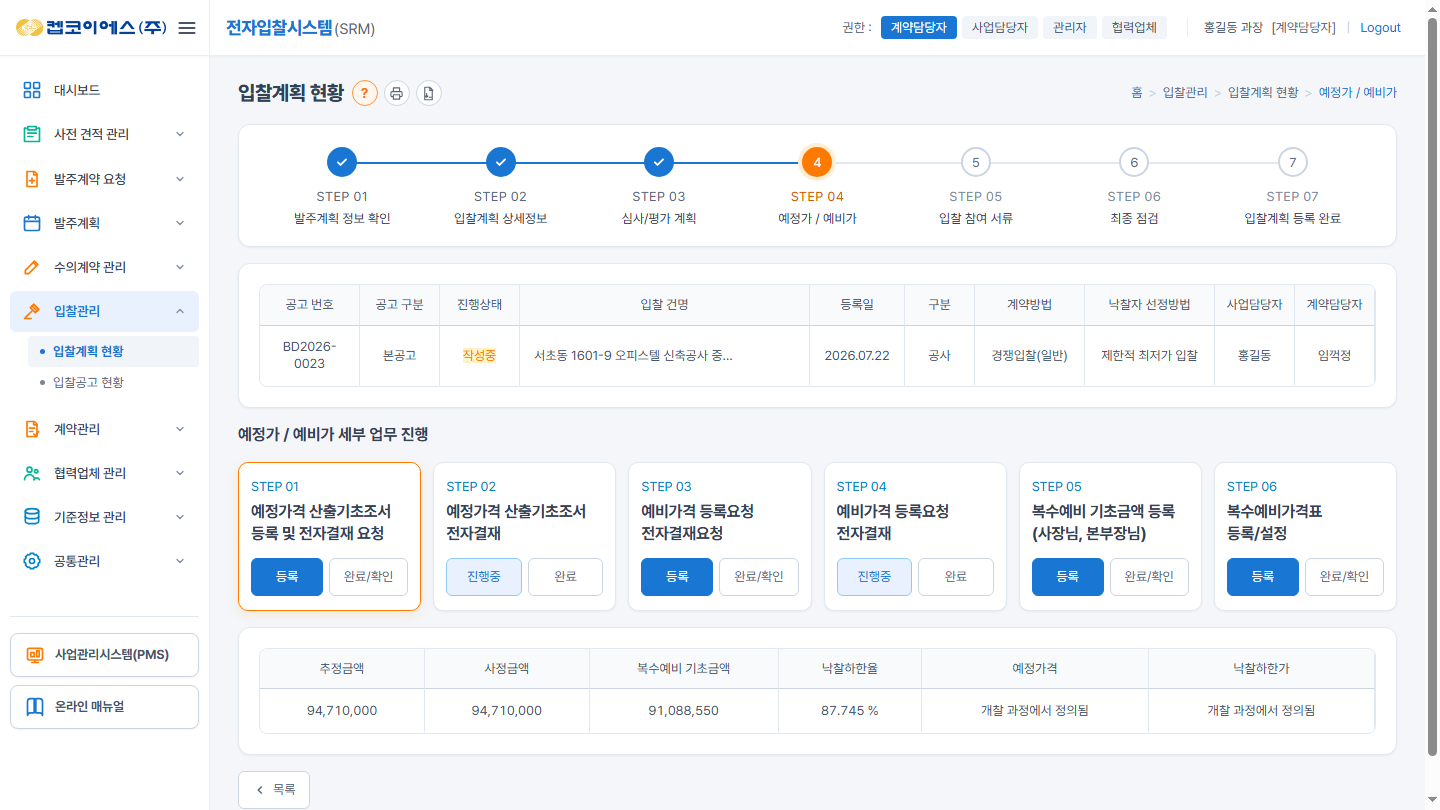
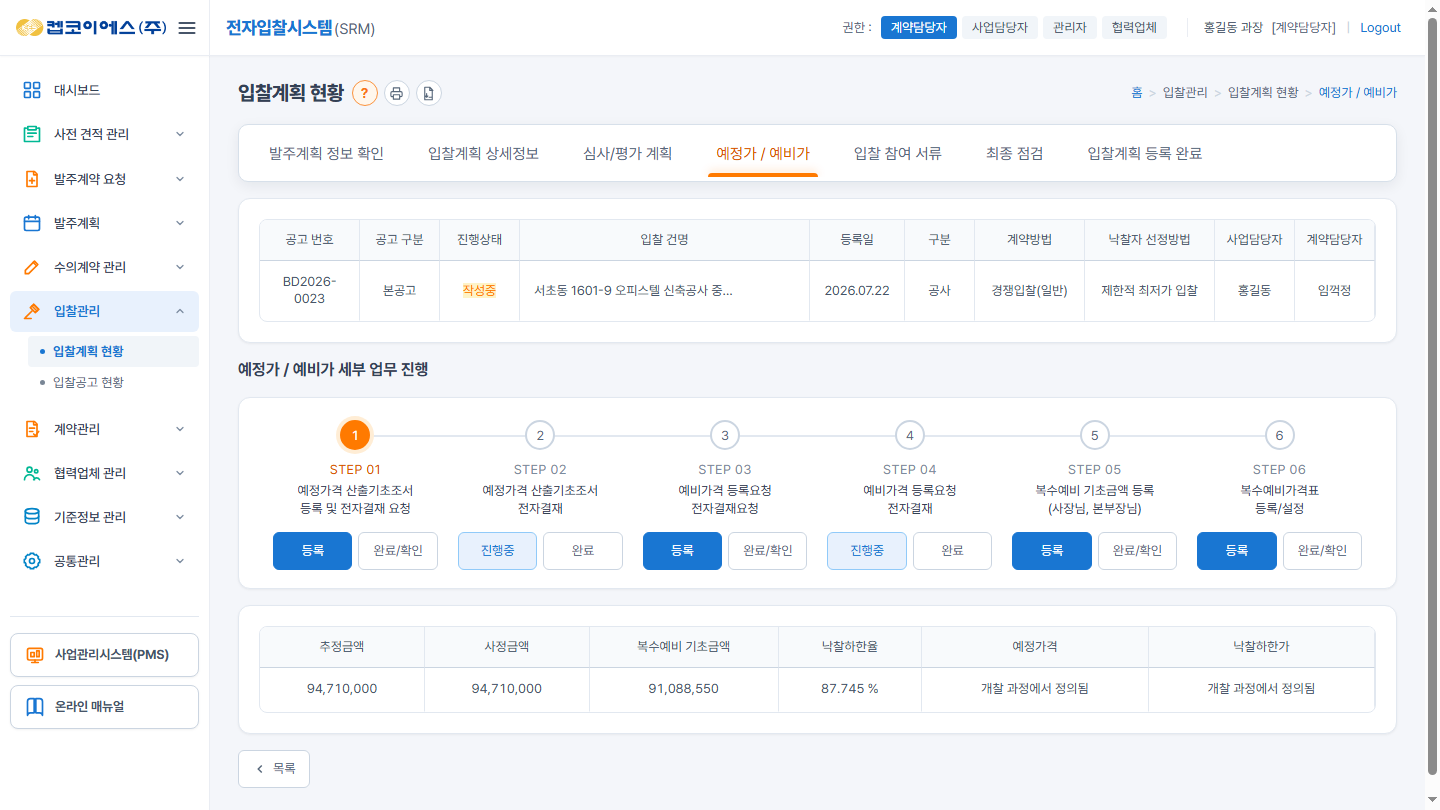
feat: StepWorkflow tab menu and flow stepper, add deployment URL list (guide v2.31)
- top 7-step indicator on StepWorkflow becomes the standard work tab menu
- 6 detail sub-steps become an action stepper (flowchart) instead of cards
- remove obsolete sub-stepper card CSS, sync approval flow JS
- refresh StepWorkflow thumbnail
- add URL.txt with GitHub Pages addresses

diff --git a/StepWorkflow.html b/StepWorkflow.html
@@ -268,43 +268,18 @@
       </div>
 
       <!-- ==================================================================
-           입찰계획 7단계 진행 표시 (표준 위저드 스텝바, 현재 단계 = STEP 04)
+           입찰계획 7단계 탭 메뉴 (표준 업무 탐색 탭, 현재 탭 = 예정가 / 예비가)
+           시연 범위 밖 단계는 선택 시 안내만 표시합니다.
            ================================================================== -->
-      <div class="wizard-stepper" id="workflowStepper" role="group" aria-label="입찰계획 진행 단계">
-        <div class="wizard-step-box completed" data-step="1" role="button" tabindex="0">
-          <span class="wizard-step-dot" aria-hidden="true">1</span>
-          <div class="wizard-step-num">STEP 01</div>
-          <div class="wizard-step-title">발주계획 정보 확인</div>
-        </div>
-        <div class="wizard-step-box completed" data-step="2" role="button" tabindex="0">
-          <span class="wizard-step-dot" aria-hidden="true">2</span>
-          <div class="wizard-step-num">STEP 02</div>
-          <div class="wizard-step-title">입찰계획 상세정보</div>
-        </div>
-        <div class="wizard-step-box completed" data-step="3" role="button" tabindex="0">
-          <span class="wizard-step-dot" aria-hidden="true">3</span>
-          <div class="wizard-step-num">STEP 03</div>
-          <div class="wizard-step-title">심사/평가 계획</div>
-        </div>
-        <div class="wizard-step-box active" data-step="4" role="button" tabindex="0" aria-current="step">
-          <span class="wizard-step-dot" aria-hidden="true">4</span>
-          <div class="wizard-step-num">STEP 04</div>
-          <div class="wizard-step-title">예정가 / 예비가</div>
-        </div>
-        <div class="wizard-step-box" data-step="5" role="button" tabindex="0">
-          <span class="wizard-step-dot" aria-hidden="true">5</span>
-          <div class="wizard-step-num">STEP 05</div>
-          <div class="wizard-step-title">입찰 참여 서류</div>
-        </div>
-        <div class="wizard-step-box" data-step="6" role="button" tabindex="0">
-          <span class="wizard-step-dot" aria-hidden="true">6</span>
-          <div class="wizard-step-num">STEP 06</div>
-          <div class="wizard-step-title">최종 점검</div>
-        </div>
-        <div class="wizard-step-box" data-step="7" role="button" tabindex="0">
-          <span class="wizard-step-dot" aria-hidden="true">7</span>
-          <div class="wizard-step-num">STEP 07</div>
-          <div class="wizard-step-title">입찰계획 등록 완료</div>
+      <div class="detail-tabs-bar">
+        <div class="detail-tab-group" id="workflowTabs" role="tablist" aria-label="입찰계획 업무 단계" data-tab-preview>
+          <button type="button" class="detail-tab-btn" role="tab" aria-selected="false">발주계획 정보 확인</button>
+          <button type="button" class="detail-tab-btn" role="tab" aria-selected="false">입찰계획 상세정보</button>
+          <button type="button" class="detail-tab-btn" role="tab" aria-selected="false">심사/평가 계획</button>
+          <button type="button" class="detail-tab-btn active" role="tab" aria-selected="true">예정가 / 예비가</button>
+          <button type="button" class="detail-tab-btn" role="tab" aria-selected="false">입찰 참여 서류</button>
+          <button type="button" class="detail-tab-btn" role="tab" aria-selected="false">최종 점검</button>
+          <button type="button" class="detail-tab-btn" role="tab" aria-selected="false">입찰계획 등록 완료</button>
         </div>
       </div>
 
@@ -345,84 +320,65 @@
       </div>
 
       <!-- ==================================================================
-           step 04 세부 업무 프로세스 (6-step sub stepper)
+           step 04 세부 업무 프로세스 (6단계 순서도, 액션형 스텝바)
            ================================================================== -->
       <h2 class="card-title">예정가 / 예비가 세부 업무 진행</h2>
 
-      <div class="sub-stepper-grid">
-        
-        <!-- 서브스텝 1: 예정가격 산출기초조서 등록 및 전자결재 요청 (모달 연계) -->
-        <div class="sub-step-card active-substep">
-          <div>
-            <div class="sub-step-num">STEP 01</div>
-            <div class="sub-step-title">예정가격 산출기초조서<br>등록 및 전자결재 요청</div>
-          </div>
-          <div class="sub-step-btns-row">
+      <div class="wizard-stepper has-actions" id="workflowSubFlow" role="group" aria-label="예정가 / 예비가 세부 업무 진행">
+        <div class="wizard-step-box active" data-step="1" aria-current="step">
+          <span class="wizard-step-dot" aria-hidden="true">1</span>
+          <div class="wizard-step-num">STEP 01</div>
+          <div class="wizard-step-title">예정가격 산출기초조서<br>등록 및 전자결재 요청</div>
+          <div class="wizard-step-actions">
             <button type="button" class="btn-sub-action btn-task-register btn-open-calc-modal">등록</button>
             <button type="button" class="btn-sub-action btn-task-done btn-open-calc-modal">완료/확인</button>
           </div>
         </div>
-
-        <!-- 서브스텝 2: 예정가격 산출기초조서 전자결재 -->
-        <div class="sub-step-card">
-          <div>
-            <div class="sub-step-num">STEP 02</div>
-            <div class="sub-step-title">예정가격 산출기초조서<br>전자결재</div>
-          </div>
-          <div class="sub-step-btns-row">
+        <div class="wizard-step-box" data-step="2">
+          <span class="wizard-step-dot" aria-hidden="true">2</span>
+          <div class="wizard-step-num">STEP 02</div>
+          <div class="wizard-step-title">예정가격 산출기초조서<br>전자결재</div>
+          <div class="wizard-step-actions">
             <button type="button" class="btn-sub-action btn-task-progress">진행중</button>
             <button type="button" class="btn-sub-action btn-task-done">완료</button>
           </div>
         </div>
-
-        <!-- 서브스텝 3: 예비가격 등록요청 전자결재요청 -->
-        <div class="sub-step-card">
-          <div>
-            <div class="sub-step-num">STEP 03</div>
-            <div class="sub-step-title">예비가격 등록요청<br>전자결재요청</div>
-          </div>
-          <div class="sub-step-btns-row">
+        <div class="wizard-step-box" data-step="3">
+          <span class="wizard-step-dot" aria-hidden="true">3</span>
+          <div class="wizard-step-num">STEP 03</div>
+          <div class="wizard-step-title">예비가격 등록요청<br>전자결재요청</div>
+          <div class="wizard-step-actions">
             <button type="button" class="btn-sub-action btn-task-register">등록</button>
             <button type="button" class="btn-sub-action btn-task-done">완료/확인</button>
           </div>
         </div>
-
-        <!-- 서브스텝 4: 예비가격 등록요청 전자결재 -->
-        <div class="sub-step-card">
-          <div>
-            <div class="sub-step-num">STEP 04</div>
-            <div class="sub-step-title">예비가격 등록요청<br>전자결재</div>
-          </div>
-          <div class="sub-step-btns-row">
+        <div class="wizard-step-box" data-step="4">
+          <span class="wizard-step-dot" aria-hidden="true">4</span>
+          <div class="wizard-step-num">STEP 04</div>
+          <div class="wizard-step-title">예비가격 등록요청<br>전자결재</div>
+          <div class="wizard-step-actions">
             <button type="button" class="btn-sub-action btn-task-progress">진행중</button>
             <button type="button" class="btn-sub-action btn-task-done">완료</button>
           </div>
         </div>
-
-        <!-- 서브스텝 5: 복수예비 기초금액 등록 -->
-        <div class="sub-step-card">
-          <div>
-            <div class="sub-step-num">STEP 05</div>
-            <div class="sub-step-title">복수예비 기초금액 등록<br>(사장님, 본부장님)</div>
-          </div>
-          <div class="sub-step-btns-row">
+        <div class="wizard-step-box" data-step="5">
+          <span class="wizard-step-dot" aria-hidden="true">5</span>
+          <div class="wizard-step-num">STEP 05</div>
+          <div class="wizard-step-title">복수예비 기초금액 등록<br>(사장님, 본부장님)</div>
+          <div class="wizard-step-actions">
             <button type="button" class="btn-sub-action btn-task-register">등록</button>
             <button type="button" class="btn-sub-action btn-task-done">완료/확인</button>
           </div>
         </div>
-
-        <!-- 서브스텝 6: 복수예비가격표 등록/설정 -->
-        <div class="sub-step-card">
-          <div>
-            <div class="sub-step-num">STEP 06</div>
-            <div class="sub-step-title">복수예비가격표<br>등록/설정</div>
-          </div>
-          <div class="sub-step-btns-row">
+        <div class="wizard-step-box" data-step="6">
+          <span class="wizard-step-dot" aria-hidden="true">6</span>
+          <div class="wizard-step-num">STEP 06</div>
+          <div class="wizard-step-title">복수예비가격표<br>등록/설정</div>
+          <div class="wizard-step-actions">
             <button type="button" class="btn-sub-action btn-task-register">등록</button>
             <button type="button" class="btn-sub-action btn-task-done">완료/확인</button>
           </div>
         </div>
-
       </div>
 
       <!-- ==================================================================

diff --git a/js/dashboard.js b/js/dashboard.js
@@ -1173,20 +1173,14 @@ function initStatisticsPage() {
  * SRM 입찰계획 현황 화면 인터랙션 (StepWorkflow.html)
  */
 function initStepWorkflowPage() {
-  if (!document.getElementById('workflowStepper')) return;
+  const workflowTabs = document.getElementById('workflowTabs');
+  if (!workflowTabs) return;
 
-  // 스텝바: 현재 화면(진행 단계) 외의 단계는 시연 범위 밖이라 안내만 표시합니다.
-  document.querySelectorAll('#workflowStepper .wizard-step-box').forEach(box => {
-    const notify = () => {
-      if (box.classList.contains('active')) return;
-      alert(`STEP ${box.dataset.step.padStart(2, '0')} 단계 화면은 현재 시연 범위에 포함되지 않습니다.`);
-    };
-    box.addEventListener('click', notify);
-    box.addEventListener('keydown', event => {
-      if (event.key !== 'Enter' && event.key !== ' ') return;
-      event.preventDefault();
-      notify();
-    });
+  // 업무 단계 탭: 현재 화면(예정가 / 예비가) 외의 단계는 시연 범위 밖이라 안내만 표시합니다.
+  initTabGroup(workflowTabs, (tab, source) => {
+    if (tab.classList.contains('active')) return true;
+    if (source === 'click') alert(`${tab.textContent.trim()} 단계 화면은 현재 시연 범위에 포함되지 않습니다.`);
+    return false;
   });
 
   const btnOpenCalcModal = document.querySelectorAll('.btn-open-calc-modal');
@@ -1332,17 +1326,23 @@ function initStepWorkflowPage() {
       alert('그룹웨어로 예정가격 산출기초조서 전자결재 요청이 정상 전송되었습니다.\nSTEP 02 단계가 [진행중]으로 전환됩니다.');
 
       // STEP 01 완료 상태 전환
-      const step1Btn = document.querySelector('.sub-step-card:nth-child(1) .btn-task-register');
+      const step1Btn = document.querySelector('#workflowSubFlow .wizard-step-box:nth-child(1) .btn-task-register');
       if (step1Btn) {
         step1Btn.textContent = '완료';
         step1Btn.classList.remove('btn-task-register');
         step1Btn.classList.add('btn-task-done');
       }
 
-      // STEP 02 진행중 활성화
-      const step2Card = document.querySelector('.sub-step-card:nth-child(2)');
-      if (step2Card) {
-        step2Card.classList.add('active-substep');
+      // 순서도: STEP 01 완료, STEP 02 진행 단계로 이동
+      const flowBoxes = document.querySelectorAll('#workflowSubFlow .wizard-step-box');
+      if (flowBoxes[0]) {
+        flowBoxes[0].classList.remove('active');
+        flowBoxes[0].classList.add('completed');
+        flowBoxes[0].removeAttribute('aria-current');
+      }
+      if (flowBoxes[1]) {
+        flowBoxes[1].classList.add('active');
+        flowBoxes[1].setAttribute('aria-current', 'step');
       }
     });
   }

diff --git a/css/style.css b/css/style.css
@@ -4958,54 +4958,6 @@ img {
   font-weight: 500;
 }
 
-/* 하위 6단계 세부 업무 프로세스 스텝퍼 */
-.sub-stepper-grid {
-  display: grid;
-  grid-template-columns: repeat(6, 1fr);
-  gap: 12px;
-  margin-bottom: 24px;
-}
-
-.sub-step-card {
-  background: #ffffff;
-  border: 1.5px solid #e2e8f0;
-  border-radius: 10px;
-  padding: 14px 12px;
-  display: flex;
-  flex-direction: column;
-  justify-content: space-between;
-  min-height: 125px;
-  box-shadow: var(--shadow-sm);
-  transition: all var(--transition-fast);
-}
-
-.sub-step-card.active-substep {
-  border-color: #ff7a00;
-  background: #ffffff;
-  box-shadow: 0 4px 12px rgba(245, 158, 11, 0.15);
-}
-
-.sub-step-num {
-  font-size: 13px;
-  font-weight: 700;
-  color: #0284c7;
-  margin-bottom: 4px;
-}
-
-.sub-step-title {
-  font-size: 13px;
-  font-weight: 700;
-  color: #334155;
-  line-height: 1.35;
-  margin-bottom: 12px;
-  min-height: 32px;
-}
-
-.sub-step-btns-row {
-  display: flex;
-  gap: 6px;
-}
-
 .btn-sub-action {
   flex: 1;
   padding: 5px 0;
@@ -7837,7 +7789,6 @@ body :is(
   .stats-card-title,
   .bidding-card-title,
   .srm-kpi-title,
-  .sub-step-title,
   .srm-section-heading h2,
   .app-card-header h2,
   .app-card-header h3,
@@ -8882,3 +8833,11 @@ body .btn-filter-search { font-weight: 400 !important; }
 /* 4) 표 안 글자는 13px (합계 행 포함) */
 .calc-data-table .calc-summary-row, .calc-data-table .calc-summary-row td { font-size: 13px; }
 .data-table td :is(.step-badge, .review-badge, .badge-rate-orange) { padding-top: 1px; padding-bottom: 1px; }
+
+/* 액션형 스텝바(순서도): 단계마다 단계명 아래에 업무 버튼을 둔다 (가이드 5.7) */
+.wizard-stepper.has-actions .wizard-step-box { cursor: default; padding: 0 10px; }
+.wizard-stepper.has-actions .wizard-step-box:not(.active):hover .wizard-step-dot { border-color: #cbd5e1; }
+.wizard-stepper.has-actions .wizard-step-box:not(.active):hover .wizard-step-title { color: #475569; }
+.wizard-stepper.has-actions .wizard-step-title { min-height: 36px; line-height: 1.4; white-space: normal; }
+.wizard-step-actions { display: flex; gap: 6px; width: 100%; margin-top: 12px; }
+.wizard-step-actions .btn-sub-action { flex: 1; min-width: 0; }

diff --git a/DESIGN_GUIDE.md b/DESIGN_GUIDE.md
@@ -1,7 +1,7 @@
 # 📘 KEPCO ES 통합 디자인 / UI / UX 가이드라인 (Design System)
 
 > **프로젝트**: 켑코이에스(주) 사업관리시스템 (PMS) & 전자입찰시스템 (SRM)  
-> **버전**: v2.30  
+> **버전**: v2.31  
 > **최종 수정일**: 2026-09-20  
 > **목적**: PMS 및 SRM 전체 화면의 시각적 완성도, 일관성, 접근성 및 사용자 경험(UX) 표준을 정의하고 협업 기준을 제공하는 단일 진실 공급원(Single Source of Truth).
 
@@ -512,13 +512,15 @@ font-family: 'Pretendard';
 ### 5.7 탭과 스텝퍼 (Tabs & Steppers)
 - **업무 탐색 탭**: 화면의 주요 업무 단계 탭은 `15px ~ 15.5px`, 최소 높이 `48px`을 적용합니다. 굵기는 비활성·선택 모두 `400`(볼드 없음)이며 선택 여부는 굵기가 아니라 색상과 인디케이터로 구분합니다. 비활성 탭 텍스트는 중간 회색 `#58687b`로 통일합니다. 선택 탭은 별도 면 배경 없이 오렌지 텍스트, 4px 오렌지 하단 인디케이터로 구분하며 hover와 키보드 focus 상태를 제공합니다. 탭 컨테이너는 `role="tablist"`, 각 탭은 `role="tab"`과 `aria-selected`를 사용합니다. 표준 마크업과 클래스는 `.detail-tabs-bar`(흰 박스) > `.detail-tab-group`(`role="tablist"`) > `.detail-tab-btn`(`role="tab"`)이며, 탭은 자동 너비로 왼쪽부터 나열하고 탭 사이에 구분선이나 균등 분할 그리드를 사용하지 않습니다. 동작(선택·`aria-selected`·방향키/Home/End 이동)은 `initTabGroup()`이 담당합니다.
 - **입찰 프로세스 탭**(SRM 8단계, `입찰공고 현황` 상세 화면): 왼쪽 메뉴에는 나열하지 않고(4.2) 이 탭으로만 구분하며, 별도 스타일 없이 위 표준 탭을 그대로 사용합니다. 아직 화면이 없는 단계는 `.detail-tab-group`에 `data-tab-preview`를 지정해 선택 시 안내만 표시하고 선택 상태를 바꾸지 않습니다.
-- **단계 표시 표준 — 위저드 스텝바 (확정)**(`.wizard-stepper` > `.wizard-step-box`, 협력업체 신청 5-Step·입찰계획 7-Step 등 순차 진행 화면): 번호 원 + 연결선 + 단계 라벨로 구성하며 단계 수(3~7개)와 무관하게 균등 분할합니다. **순서대로 진행되는 단계·프로세스를 보여주는 모든 화면(협력업체 신청, 입찰계획 현황 등)은 이 디자인 하나만 사용하며, 화면마다 별도의 단계 표시를 새로 만들지 않습니다.**
+- **단계 표시 표준 — 위저드 스텝바 (확정)**(`.wizard-stepper` > `.wizard-step-box`, 협력업체 신청 5-Step·입찰계획 세부 업무 6단계 등 순차 진행 화면): 번호 원 + 연결선 + 단계 라벨로 구성하며 단계 수(3~7개)와 무관하게 균등 분할합니다. **순서대로 진행되는 단계·프로세스를 보여주는 모든 화면(협력업체 신청, 입찰계획 현황 등)은 이 디자인 하나만 사용하며, 화면마다 별도의 단계 표시를 새로 만들지 않습니다.**
   - **구성**: 각 단계는 세로 가운데 정렬로 `번호 원(.wizard-step-dot, 30px)` → `STEP 01`(13px, 자간 `0.5px`) → 단계명(13px, 한 줄 말줄임) 순서입니다. 컨테이너는 흰 배경, 패딩 `22px 24px 18px`, 하단 `1px solid #e2e8f0`이며 카드 헤더 아래에 붙습니다.
   - **연결선**: 단계 사이를 `2px` 선으로 잇고, 완료된 단계와 현재 단계로 들어오는 선은 블루 `#1976d2`, 이후는 `#e2e8f0`입니다. 원은 선 위에 흰색으로 겹칩니다(`z-index`).
   - **상태**: 대기 = 흰 원 + `2px #cbd5e1` 테두리 + 회색 번호; 현재 = 오렌지 채움 원(`#ff7a00`) + 흰 번호 + `4px #ffedd5` 링, `STEP`·단계명은 오렌지 텍스트 `#d95500`(업무 탐색 탭의 선택 표시와 같은 오렌지 규칙); 완료 = 블루 채움 원 + 흰색 체크 아이콘(번호 대신), `STEP`은 `#58687b`, 단계명은 `#475569`. 모든 상태에서 글자 굵기는 `400`이며 현재 단계는 색과 링으로만 구분합니다.
   - **표기**: 번호는 `STEP 01`처럼 영문 대문자, 단계명은 띄어쓰기를 지킨 명사형(`기본정보 입력`)입니다.
   - **동작·접근성**: 스텝바 항목을 클릭하거나 `Enter`/`Space`를 누르면 해당 단계 화면으로 바로 이동합니다(단계 화면이 아직 없는 시연 화면은 이동하지 않고 안내만 표시)(`role="button"`, `tabindex="0"`). 현재 단계에 `aria-current="step"`을 제공하고 hover(현재 단계 제외)에서는 원 테두리와 단계명이 블루로, 키보드 포커스에서는 원에 `2px #1976d2` 아웃라인(`offset 3px`)이 표시됩니다. 하단 `이전/다음` 버튼과 스텝바 클릭은 함께 쓸 수 있습니다.
-- **박스형 스텝바(`.stepper-step-box`)는 폐지**되었습니다. 입찰계획 현황(`StepWorkflow`, SRM 입찰계획 7-Step)도 위 표준 스텝바로 교체했으며 옛 박스형 스타일은 삭제했습니다. 스텝바를 콘텐츠 영역에 카드 밖으로 직접 둘 때(`.main-content > .wizard-stepper`)는 카드 규격(5.1: 테두리 `#e2e8f0`, 라운드 `12px`, 그림자 `--shadow-sm`)을 따르고, 카드(팝업) 헤더 아래에 붙일 때는 하단선만 사용합니다. 진행 순서대로 앞 단계는 `completed`, 현재 단계는 `active`(`aria-current`), 나머지는 대기입니다.
+- **박스형 스텝바(`.stepper-step-box`)는 폐지**되었습니다. 옛 박스형 스타일은 삭제했습니다.
+- **입찰계획 현황(`StepWorkflow`)의 구성**: 상단 입찰계획 7단계(`발주계획 정보 확인 → … → 입찰계획 등록 완료`)는 이동을 위한 메뉴이므로 위저드 스텝바가 아니라 **표준 업무 탐색 탭**(`.detail-tabs-bar`, `data-tab-preview`, 현재 탭 `예정가 / 예비가`)으로 표현합니다. 그 아래 `예정가 / 예비가 세부 업무 진행` 6단계는 순서대로 처리하는 업무 흐름이므로 **순서도(위저드 스텝바) 디자인**을 씁니다.
+- **액션형 스텝바**(`.wizard-stepper.has-actions`): 각 단계에 처리할 업무 버튼이 있는 순서도입니다. 단계 박스는 이동 대상이 아니므로 `role="button"`·클릭 이동을 두지 않고(버튼이 중첩되기 때문), 번호 원 → STEP 0N → 단계명(두 줄까지 줄바꿈, 최소 높이 `36px`) → 버튼 행(`.wizard-step-actions`, 위 간격 `12px`, 버튼 균등 분할 `6px`) 순서입니다. 버튼은 업무 단계 액션 규격(5.4 `.btn-task-*`)을 따르고, 한 단계의 업무가 끝나면 그 단계는 `completed`(블루 체크), 다음 단계는 `active`(오렌지)로 옮깁니다. 스텝바를 콘텐츠 영역에 카드 밖으로 직접 둘 때(`.main-content > .wizard-stepper`)는 카드 규격(5.1: 테두리 `#e2e8f0`, 라운드 `12px`, 그림자 `--shadow-sm`)을 따르고, 카드(팝업) 헤더 아래에 붙일 때는 하단선만 사용합니다. 진행 순서대로 앞 단계는 `completed`, 현재 단계는 `active`(`aria-current`), 나머지는 대기입니다.
 - **표준 마크업**: 단계 수만큼 `.wizard-step-box`를 나열하고, 현재 단계에 `active`와 `aria-current="step"`, 이미 지난 단계에 `completed`를 부여합니다. 상태 클래스는 스크립트(`goToStep`)가 갱신하며 마크업에는 초기 상태만 둡니다.
 
 ```html
@@ -967,6 +969,7 @@ font-family: 'Pretendard';
 ### 11.2 변경 이력
 | 버전 | 날짜 | 요지 |
 |---|---|---|
+| v2.31 | 2026-09-21 | 입찰계획 현황(`StepWorkflow.html`) 구성 변경: 상단 입찰계획 7단계를 위저드 스텝바에서 표준 업무 탐색 탭으로, `예정가 / 예비가 세부 업무 진행` 6단계를 카드 그리드에서 순서도(액션형 스텝바 `.wizard-stepper.has-actions`)로 교체(5.7). 옛 `.sub-stepper-grid`·`.sub-step-*` 삭제. |
 | v2.30 | 2026-09-21 | **새 화면 `ProjectPromotion.html`(프로젝트 정보 입력, 정보 입력 화면 예시) 추가**: 업무 탭 + 5단계 스텝바 + 입력 카드 + 조회 모달 구성. 입력 화면 폼 규격(`.form-section` · `.form-choice-group` · `.form-lookup` · `.form-hint` · `.form-actions-bar`)과 조회(선택) 모달을 5.5·5.8에 신설, 6.3에 PMS 정보 입력 화면 패턴, 새 화면 만들기 유형표·12.1·12.2 갱신. 조회 모달의 선택 버튼 행 높이 45px 유지 규칙. 프로젝트 폴더 정리: 기획서를 `docs/planning/`으로 이동. 전 화면 정합성 점검: 개별 규칙이 없던 컨트롤(날짜·셀렉트·라디오·체크박스·링크·버튼)에 키보드 포커스 아웃라인 공통 적용(2.4·5.5), 검색 버튼 굵기 400, 표 안 배지·입력·삭제 버튼이 있어도 본문 행 44px 유지, 계산표 합계 행 13px. 전 화면 썸네일 재생성. |
 | v2.29 | 2026-09-21 | 관리자 대시보드의 `시스템 연동 현황` 카드 삭제(6.7). |
 | v2.29 | 2026-09-21 | 관리자 `메일/SMS 발송 현황`의 `최근 발송 5건` 목록 삭제(요약 타일만 유지)(6.7). |
@@ -1058,7 +1061,7 @@ font-family: 'Pretendard';
 | | 약관 박스(E3) | `.terms-box` | 9장 |
 | 상태 | 배지 | `.badge-info` · `.badge-success` · `.badge-warning` · `.badge-danger` · `.badge-tag` · `.status-pill` | 5.6 |
 | 탭·단계 | 업무 탐색 탭 | `.detail-tabs-bar` > `.detail-tab-group` > `.detail-tab-btn` | 5.7, `initTabGroup()` |
-| | 위저드 스텝바 | `.wizard-stepper` > `.wizard-step-box`(`.wizard-step-dot`) | 5.7 |
+| | 위저드 스텝바 | `.wizard-stepper` > `.wizard-step-box`(`.wizard-step-dot`) · 액션형 `.wizard-stepper.has-actions` > `.wizard-step-actions` | 5.7 |
 | 오버레이 | 모달 | `.modal-backdrop`(`.show`, `.modal-top`) > `.modal-dialog`(`.modal-sm/lg/xl`) > `.modal-header`(`.modal-title`, `.modal-close`) · `.modal-body` · `.modal-footer` | 5.8, `initModals()` |
 | 안내 | 안내 박스 | `.notice-box`(`.info/.warning/.danger/.success`) > `.notice-icon` · `.notice-body`(`.notice-lead`, `.notice-note`) | 5.9.1 |
 | 콘텐츠 | 블릿 목록 · 첨부파일 | `.bullet-list` · `.srm-file-list` > `.srm-file-item` | 5.11, 5.12 |
